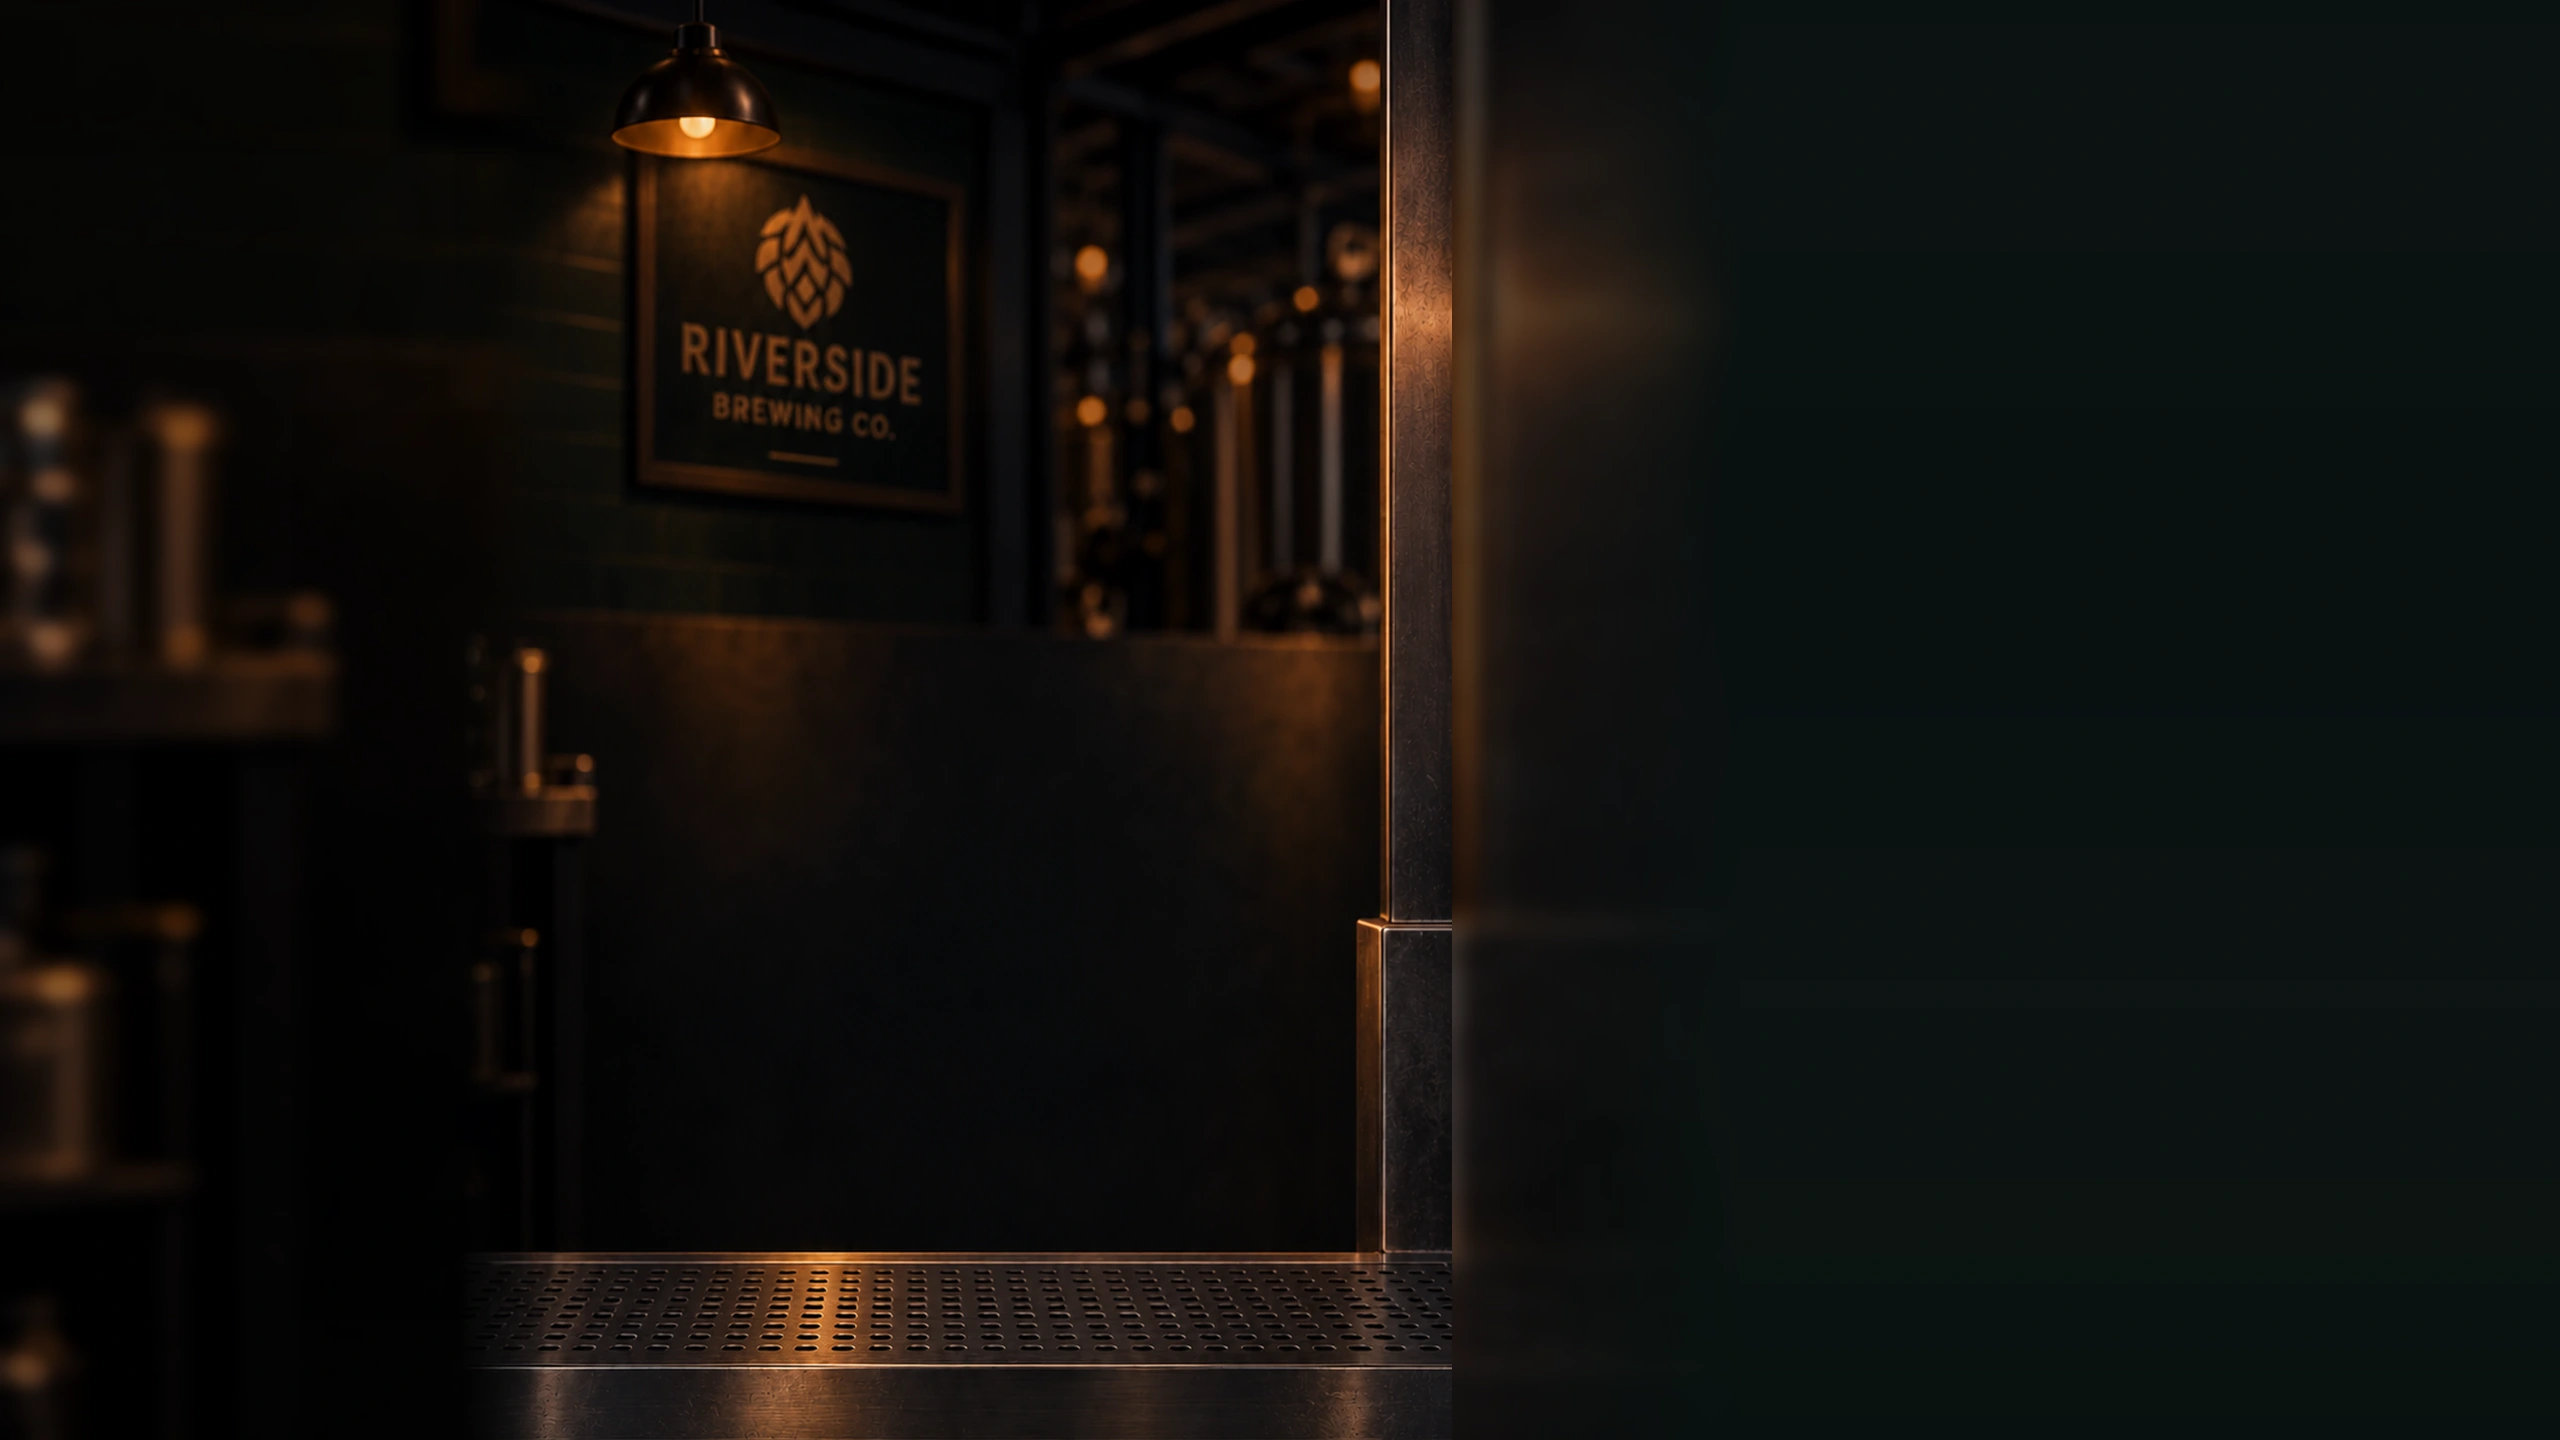
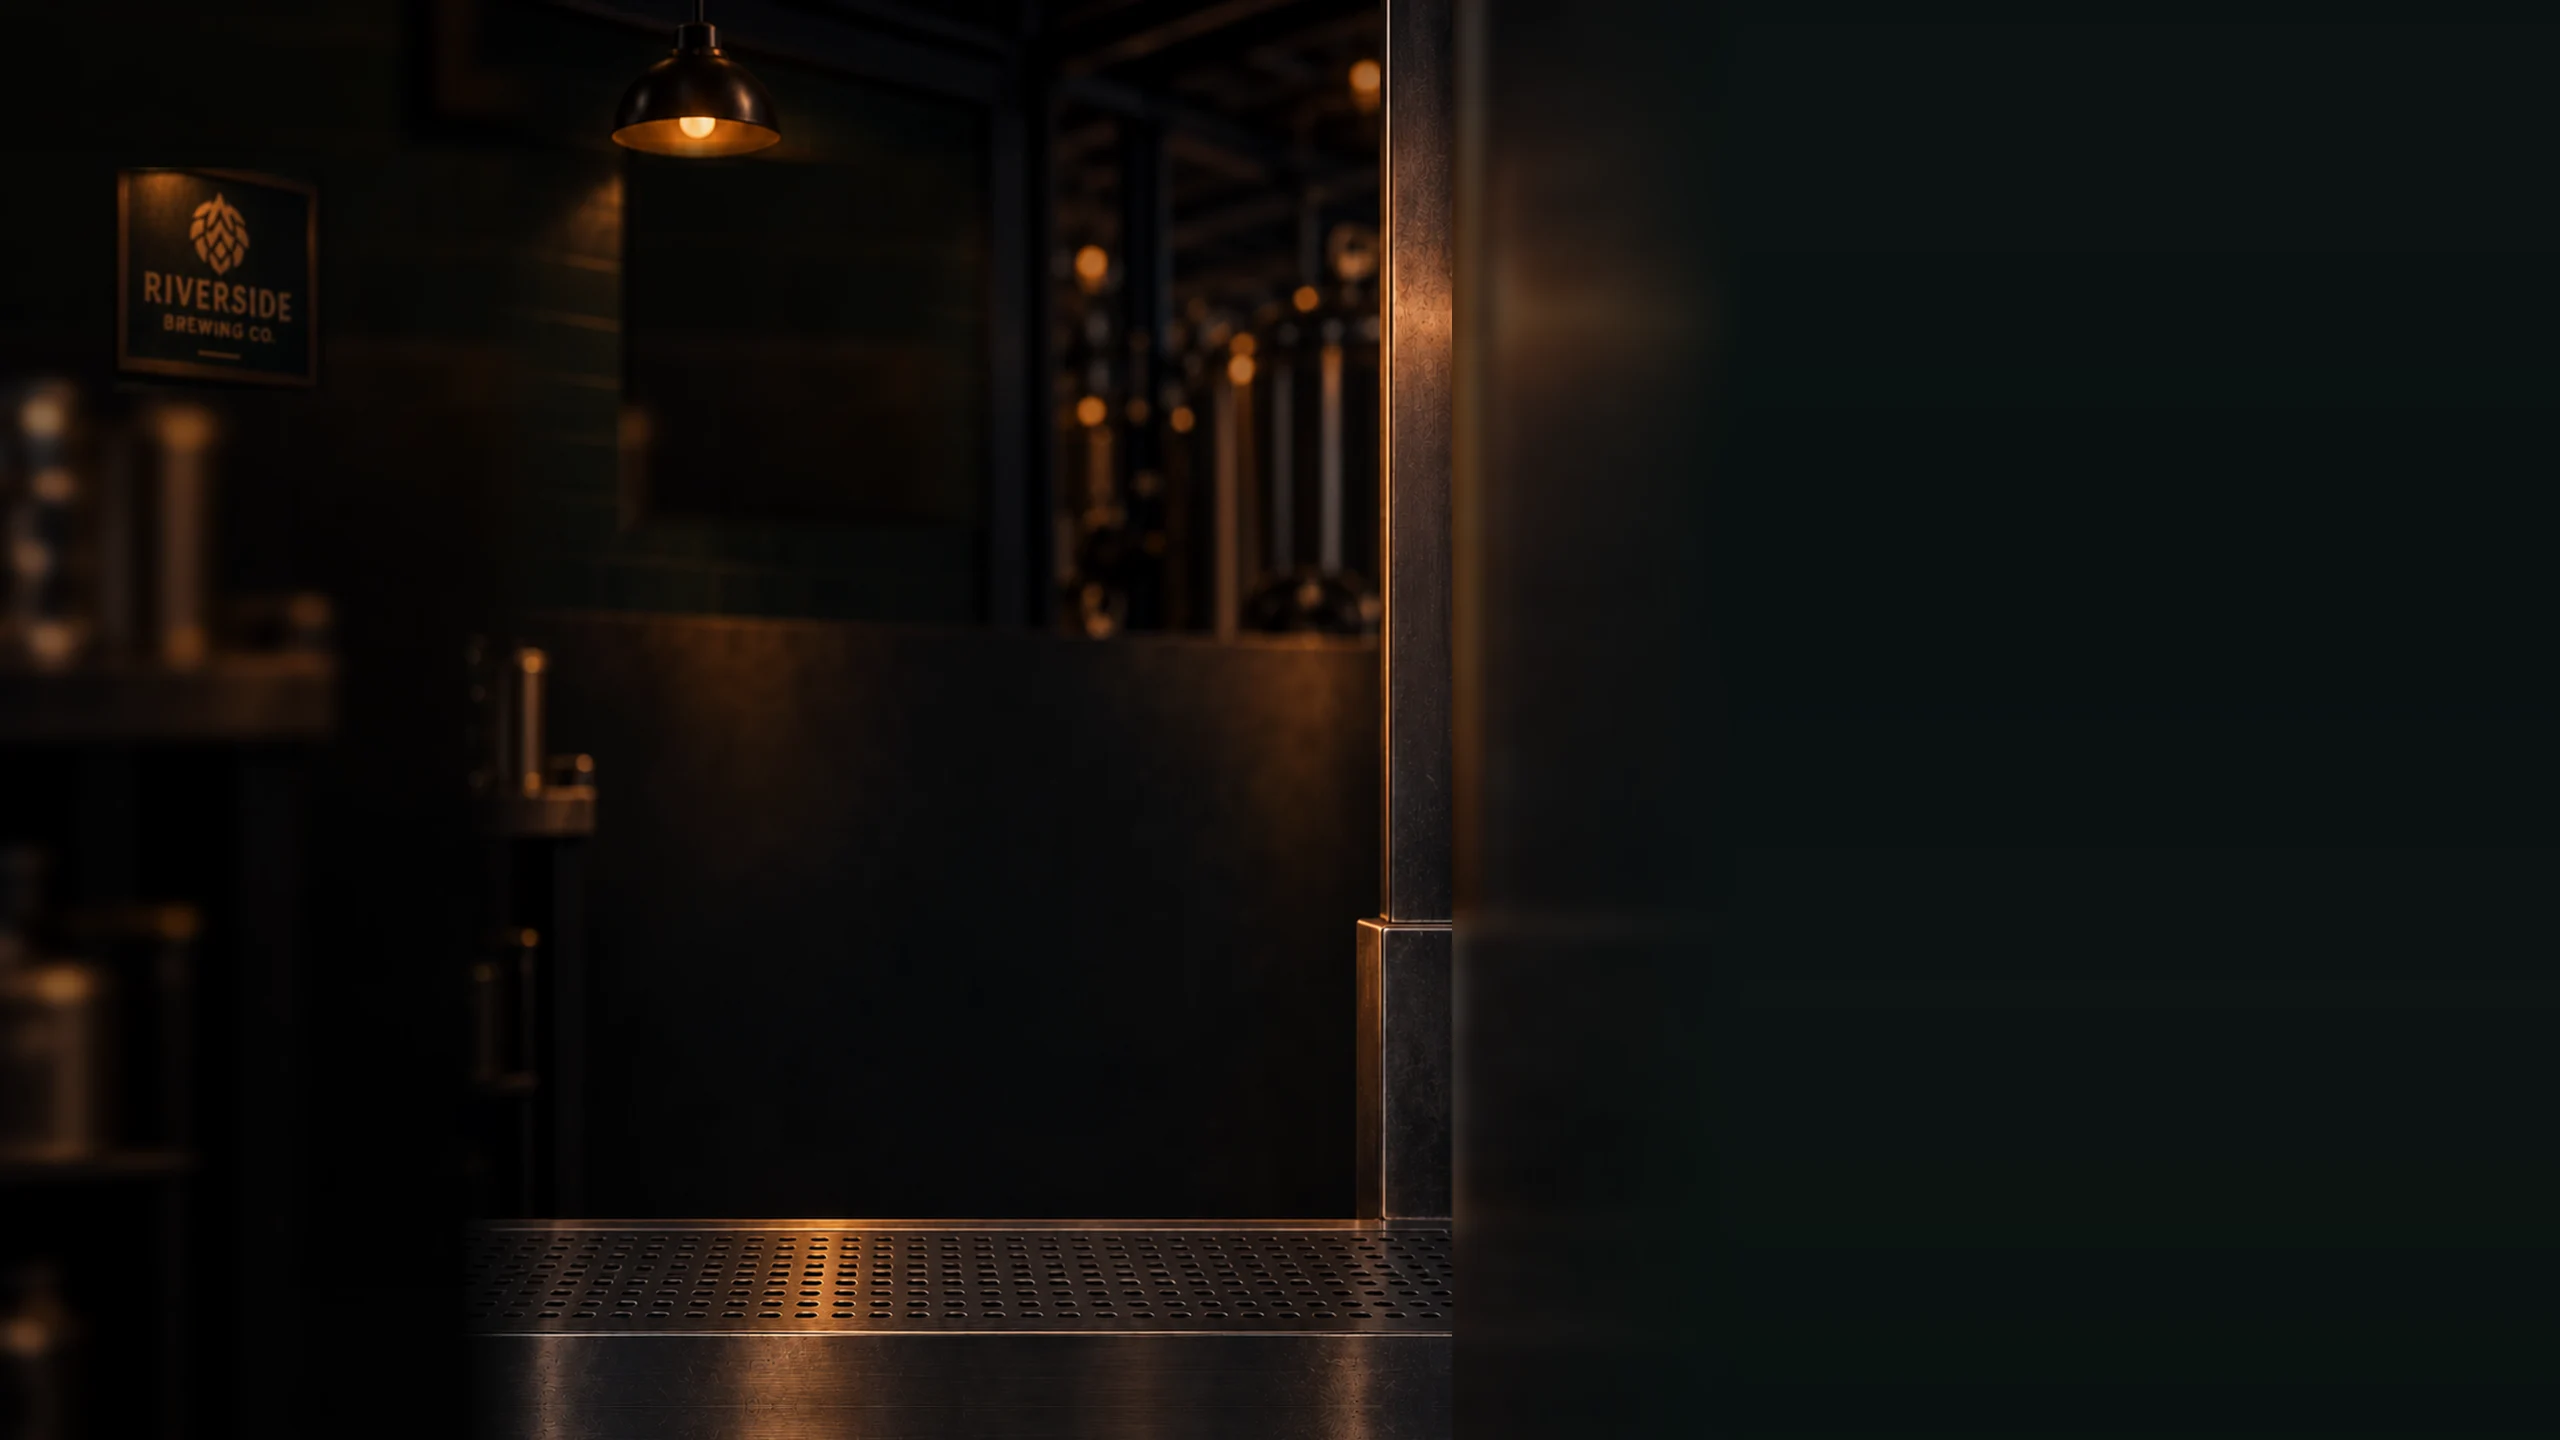
M5: install station backdrop revision 2 (tray raised to the glass base, sign moved clear of the faucet)
Claude-Session: https://claude.ai/code/session_015ZkLHiwjAQ1ocskLp6ToQ8

diff --git a/brewery.html b/brewery.html
@@ -5,10 +5,10 @@
 <meta name="viewport" content="width=device-width, initial-scale=1, viewport-fit=cover">
 <meta name="color-scheme" content="dark">
 <title>The Bar · Riverside Brewing Co.</title>
-<link rel="stylesheet" href="css/tokens.css?v=m5b">
-<link rel="stylesheet" href="css/components.css?v=m5b">
-<link rel="stylesheet" href="css/pilsner-station.css?v=m5b">
-<link rel="stylesheet" href="css/brewery.css?v=m5b">
+<link rel="stylesheet" href="css/tokens.css?v=m5c">
+<link rel="stylesheet" href="css/components.css?v=m5c">
+<link rel="stylesheet" href="css/pilsner-station.css?v=m5c">
+<link rel="stylesheet" href="css/brewery.css?v=m5c">
 </head>
 <body>
 <!-- Brand symbols shared by the hub (same as design/components.html). -->
@@ -48,11 +48,11 @@
   <button type="button" class="pp-btn pp-btn--ghost" id="rotateDismiss">Continue anyway</button>
 </div>
 
-<script src="js/sim.js?v=m5b"></script>
-<script src="js/pilsner-station.js?v=m5b"></script>
-<script src="js/progress.js?v=m5b"></script>
-<script src="js/hub-scenes.js?v=m5b"></script>
-<script src="js/station-look.js?v=m5b"></script>
-<script src="js/brewery.js?v=m5b"></script>
+<script src="js/sim.js?v=m5c"></script>
+<script src="js/pilsner-station.js?v=m5c"></script>
+<script src="js/progress.js?v=m5c"></script>
+<script src="js/hub-scenes.js?v=m5c"></script>
+<script src="js/station-look.js?v=m5c"></script>
+<script src="js/brewery.js?v=m5c"></script>
 </body>
 </html>

diff --git a/docs/art-brief-pilsner-station-16x9.md b/docs/art-brief-pilsner-station-16x9.md
@@ -1,6 +1,11 @@
 # Art brief: Pilsner station backdrop, 16:9 (M5)
 
-For GPT and the user. **Status: candidate 1 installed for review**
+For GPT and the user. **Status: revision 2 installed for review** (tray
+raised to y ~1223, so the upright glass rests on its back edge; Riverside sign
+moved upper-left, clear of the faucet and gauge). Still labelled "Backdrop
+candidate" until approved.
+
+**Earlier: candidate 1 installed for review**
 (`assets/station/pilsner.webp`, labelled "Backdrop candidate"; a controlled
 adaptation of the R3 look after generated versions kept adding a faucet).
 Findings from the live composite: no faucet (good), steel support at the
